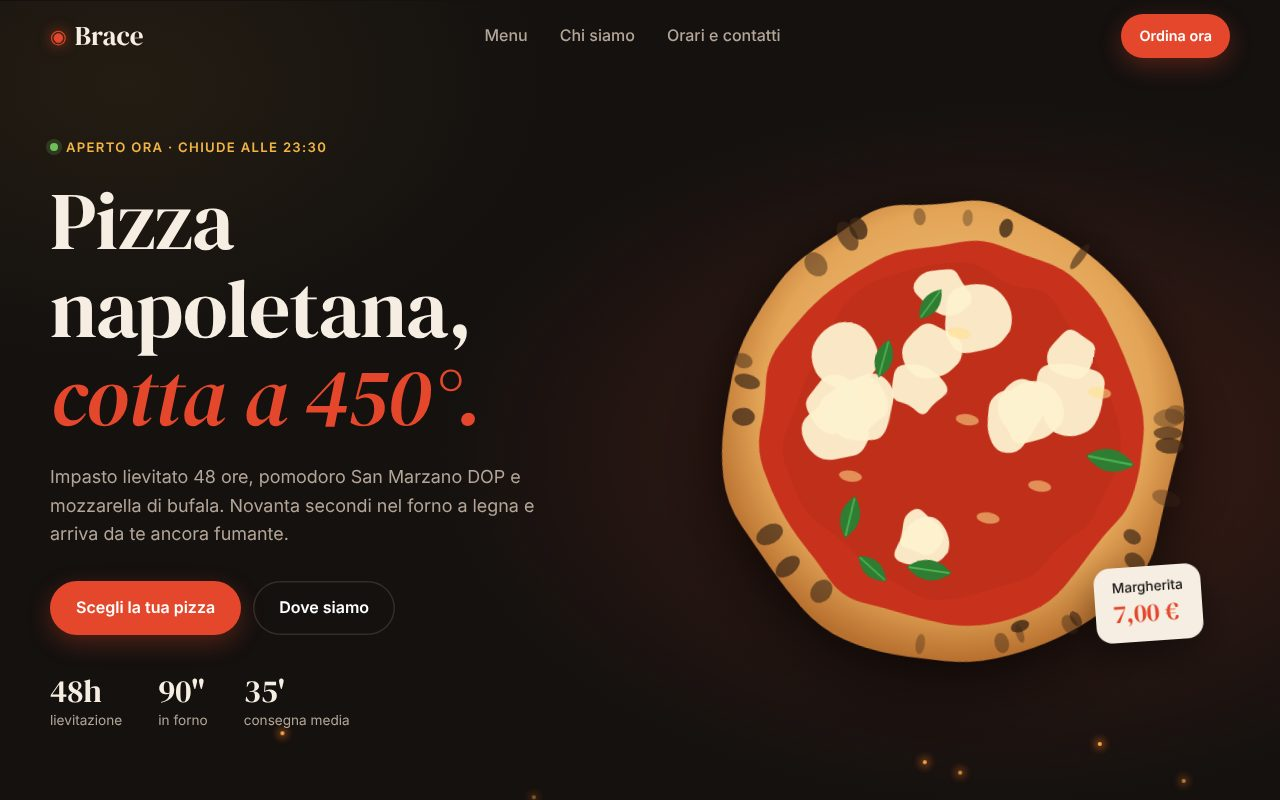
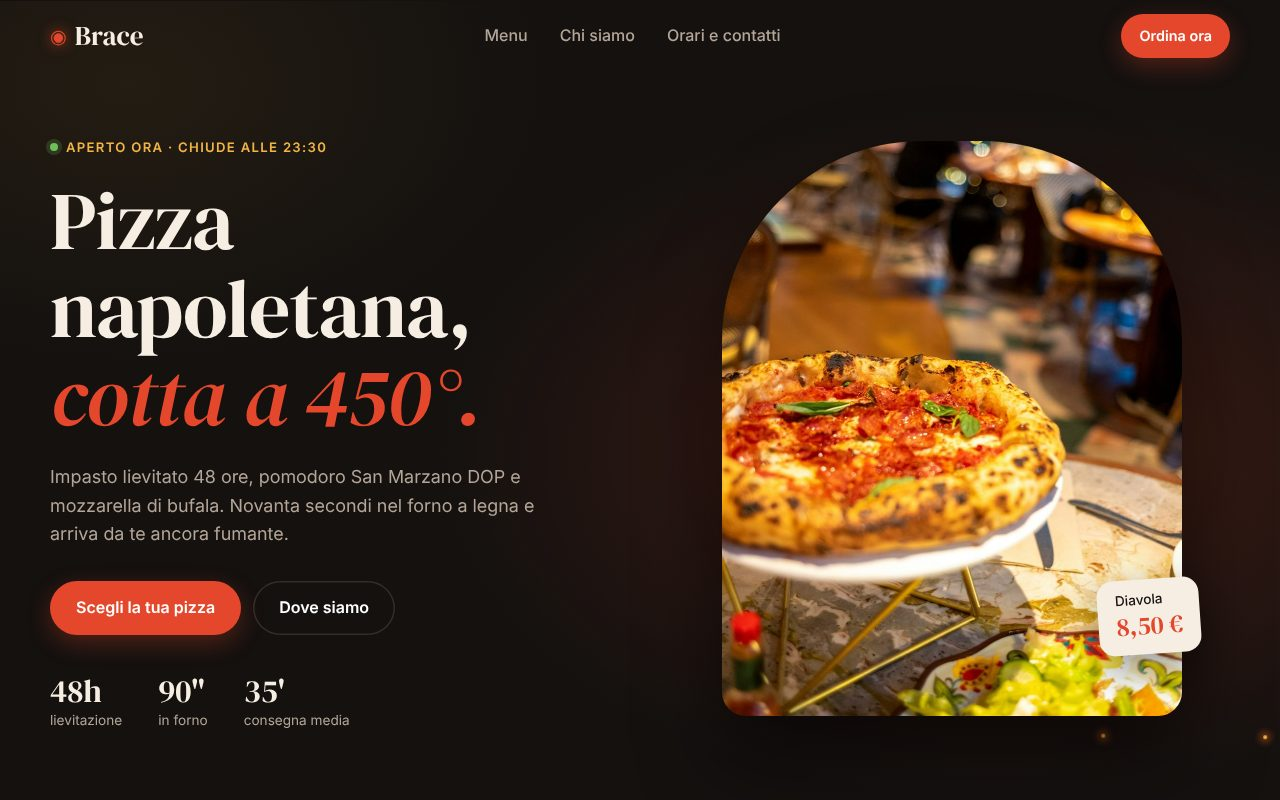
Pizzeria Brace: aggiungi foto reali
- Foto della sala nella hero, impasto in Chi siamo
- Nuova galleria "Dal nostro forno"
- Immagini ridimensionate e compresse, anteprima portfolio aggiornata

Claude-Session: https://claude.ai/code/session_01TEwMP5pCrNteArDKsZpN6x

diff --git a/progetti/pizzeria-brace/style.css b/progetti/pizzeria-brace/style.css
@@ -60,12 +60,13 @@ h1, h2, h3 { font-family: var(--serif); font-weight: 400; line-height: 1.08; }
 .stats strong { display: block; font-family: var(--serif); font-size: 2rem; font-weight: 400; line-height: 1; }
 .stats span { color: var(--muted); font-size: .85rem; }
 
-.hero-pizza { position: relative; width: min(520px, 100%); justify-self: center; aspect-ratio: 1; }
-.glow { position: absolute; inset: 8%; border-radius: 50%; background: radial-gradient(circle, rgba(255, 120, 50, .55), transparent 65%); filter: blur(30px); animation: flicker 3s infinite alternate; }
+.hero-photo { position: relative; width: min(460px, 100%); justify-self: center; }
+.hero-photo img { position: relative; width: 100%; aspect-ratio: 4 / 5; object-fit: cover; height: auto; object-position: center 88%; border-radius: 200px 200px 24px 24px; box-shadow: 0 40px 80px rgba(0, 0, 0, .6); }
+.glow { position: absolute; inset: 10% -10%; border-radius: 50%; background: radial-gradient(circle, rgba(255, 120, 50, .45), transparent 65%); filter: blur(40px); animation: flicker 3s infinite alternate; }
 @keyframes flicker { from { opacity: .7; transform: scale(.97); } to { opacity: 1; transform: scale(1.03); } }
-.spin { position: relative; animation: spin 80s linear infinite; filter: drop-shadow(0 30px 40px rgba(0, 0, 0, .55)); }
+.spin { animation: spin 40s linear infinite; }
 @keyframes spin { to { transform: rotate(360deg); } }
-.price-tag { position: absolute; right: 2%; bottom: 10%; background: var(--text); color: var(--bg); border-radius: 16px; padding: 12px 18px; font-size: .85rem; font-weight: 500; box-shadow: 0 16px 40px rgba(0, 0, 0, .4); display: flex; flex-direction: column; line-height: 1.3; transform: rotate(-4deg); }
+.price-tag { position: absolute; right: -18px; bottom: 12%; background: var(--text); color: var(--bg); border-radius: 16px; padding: 12px 18px; font-size: .85rem; font-weight: 500; box-shadow: 0 16px 40px rgba(0, 0, 0, .4); display: flex; flex-direction: column; line-height: 1.3; transform: rotate(-4deg); }
 .price-tag strong { font-family: var(--serif); font-size: 1.6rem; font-weight: 400; color: var(--red); }
 
 .embers { position: absolute; inset: 0; pointer-events: none; }
@@ -128,7 +129,19 @@ h1, h2, h3 { font-family: var(--serif); font-weight: 400; line-height: 1.08; }
 /* Storia */
 .story { background: var(--bg-2); border-block: 1px solid var(--line); }
 .story-inner { display: grid; grid-template-columns: 1fr 1.2fr; gap: 64px; align-items: center; }
-.story-art { max-width: 420px; justify-self: center; width: 100%; filter: drop-shadow(0 30px 40px rgba(0, 0, 0, .5)); }
+.story-art { position: relative; max-width: 420px; justify-self: center; width: 100%; }
+.story-art img { width: 100%; height: auto; aspect-ratio: 4 / 5; object-position: center 60%; object-fit: cover; border-radius: var(--radius); box-shadow: 0 30px 60px rgba(0, 0, 0, .5); }
+.story-badge { position: absolute; right: -20px; bottom: 28px; background: var(--red); color: #fff; padding: 14px 18px; border-radius: 14px; font-size: .85rem; line-height: 1.3; box-shadow: 0 16px 30px rgba(0, 0, 0, .4); }
+.story-badge strong { font-family: var(--serif); font-weight: 400; font-size: 1.3rem; }
+
+/* Galleria */
+.section-head h2 em { color: var(--red); }
+.gallery { display: grid; grid-template-columns: 1.2fr 1fr; grid-template-rows: 1fr 1fr; gap: 16px; height: 640px; }
+.gallery figure { position: relative; overflow: hidden; border-radius: var(--radius); }
+.g-big { grid-row: span 2; }
+.gallery img { width: 100%; height: 100%; object-fit: cover; transition: transform .8s cubic-bezier(.2, .8, .2, 1); }
+.gallery figure:hover img { transform: scale(1.06); }
+.gallery figcaption { position: absolute; left: 0; right: 0; bottom: 0; padding: 40px 20px 16px; background: linear-gradient(transparent, rgba(0, 0, 0, .7)); font-family: var(--serif); font-size: 1.3rem; }
 .story h2 { font-size: clamp(2rem, 4vw, 3rem); margin-bottom: 18px; }
 .story p:not(.eyebrow) { color: var(--muted); margin-bottom: 14px; font-size: 1.05rem; }
 
@@ -237,7 +250,13 @@ input.invalid { border-color: var(--red); box-shadow: 0 0 0 3px rgba(228, 71, 43
   .header-inner { height: 64px; }
   .hero { margin-top: -64px; padding: 96px 0 56px; }
   .hero-inner { grid-template-columns: 1fr; gap: 12px; }
-  .hero-pizza { width: min(340px, 86%); order: -1; }
+  .hero-photo { width: min(320px, 78%); order: -1; margin-bottom: 20px; }
+  .hero-photo img { aspect-ratio: 1; border-radius: 160px 160px 20px 20px; }
+  .price-tag { right: -14px; }
+  .gallery { grid-template-columns: 1fr 1fr; grid-template-rows: 300px 180px; height: auto; }
+  .g-big { grid-row: auto; grid-column: span 2; }
+  .gallery figcaption { font-size: 1rem; padding: 30px 14px 12px; }
+  .story-badge { right: -8px; }
   .stats { gap: 24px; }
   .section { padding: 64px 0; }
   .tabs { top: 64px; justify-content: flex-start; }
@@ -250,6 +269,6 @@ input.invalid { border-color: var(--red); box-shadow: 0 0 0 3px rgba(228, 71, 43
   .pizza-body p { font-size: .84rem; }
   .ribbon { top: 8px; left: 8px; font-size: .66rem; padding: 3px 8px; }
   .story-inner { grid-template-columns: 1fr; gap: 24px; }
-  .story-art { max-width: 240px; }
+  .story-art { max-width: 300px; }
   .two { grid-template-columns: 1fr; }
 }

diff --git a/progetti/pizzeria-brace/index.html b/progetti/pizzeria-brace/index.html
@@ -43,10 +43,10 @@
           <li><strong>35'</strong><span>consegna media</span></li>
         </ul>
       </div>
-      <div class="hero-pizza" aria-hidden="true">
-        <div class="glow"></div>
-        <div class="spin" id="heroPizza"></div>
-        <div class="price-tag">Margherita<strong>7,00 €</strong></div>
+      <div class="hero-photo">
+        <div class="glow" aria-hidden="true"></div>
+        <img src="img/sala.jpg" alt="Pizza diavola appena sfornata servita in sala" width="900" height="1350" fetchpriority="high">
+        <div class="price-tag">Diavola<strong>8,50 €</strong></div>
       </div>
     </div>
   </section>
@@ -65,12 +65,29 @@
 
   <section id="storia" class="section story">
     <div class="container story-inner">
-      <div class="story-art" id="storyArt" aria-hidden="true"></div>
+      <div class="story-art">
+        <img src="img/impasto.jpg" alt="Le mani del pizzaiolo con un panetto di impasto" width="900" height="1358" loading="lazy">
+        <span class="story-badge">Impasto a mano<br><strong>ogni mattina</strong></span>
+      </div>
       <div>
         <p class="eyebrow">Chi siamo</p>
         <h2>Una brace accesa dal 2012.</h2>
         <p>Siamo una piccola pizzeria di quartiere a Padova. Il nostro pizzaiolo ha imparato a Napoli e ogni giorno impasta a mano solo farina, acqua, sale e lievito madre.</p>
         <p>Usiamo ingredienti di piccoli produttori: pomodoro San Marzano, fior di latte di Agerola, olio extravergine pugliese.</p>
+      </div>
+    </div>
+  </section>
+
+  <section class="section gallery-section" aria-labelledby="galleryTitle">
+    <div class="container">
+      <div class="section-head">
+        <p class="eyebrow">Dal nostro forno</p>
+        <h2 id="galleryTitle">Fatta per essere fotografata.<br><em>E mangiata subito.</em></h2>
+      </div>
+      <div class="gallery">
+        <figure class="g-big"><img src="img/hero.jpg" alt="Due pizze napoletane sul bancone vicino alla finestra" loading="lazy"><figcaption>Margherita e Diavola</figcaption></figure>
+        <figure><img src="img/margherita.jpg" alt="Primo piano di una margherita con basilico" loading="lazy"><figcaption>Margherita</figcaption></figure>
+        <figure><img src="img/bianca.jpg" alt="Pizza bianca con spinaci, pomodorini e stracciatella" loading="lazy"><figcaption>Bianca dell'orto</figcaption></figure>
       </div>
     </div>
   </section>
@@ -98,7 +115,7 @@
 <footer class="footer">
   <div class="container footer-inner">
     <span class="logo"><span class="logo-mark">◉</span> Brace</span>
-    <p>Progetto demo realizzato da <strong>Ayoub Balhouh</strong>. Nessun ordine reale.</p>
+    <p>Progetto demo realizzato da <strong>Ayoub Balhouh</strong>. Nessun ordine reale. Foto: Unsplash.</p>
   </div>
 </footer>
 

diff --git a/progetti/pizzeria-brace/app.js b/progetti/pizzeria-brace/app.js
@@ -269,8 +269,6 @@ const io = new IntersectionObserver((entries) => {
 window.addEventListener('scroll', () => $('#header').classList.toggle('scrolled', scrollY > 20), { passive: true });
 
 // ===== Avvio =====
-$('#heroPizza').innerHTML = drawPizza(MENU[0], 7);
-$('#storyArt').innerHTML = drawPizza(item('brace'), 31);
 $('#embers').innerHTML = Array.from({ length: 26 }, () =>
   `<span style="left:${(Math.random() * 100).toFixed(1)}%;animation-delay:${(Math.random() * 8).toFixed(2)}s;animation-duration:${(6 + Math.random() * 6).toFixed(2)}s"></span>`).join('');
 renderStatus();

diff --git a/progetti/pizzeria-brace/README.md b/progetti/pizzeria-brace/README.md
@@ -15,4 +15,6 @@ Sito con ordine online per una pizzeria, realizzato da **Ayoub Balhouh**.
 ## Tecnologie
 HTML5, CSS3, JavaScript vanilla. Nessuna libreria.
 
+Foto: Unsplash.
+
 > Progetto demo: nessun ordine reale.
